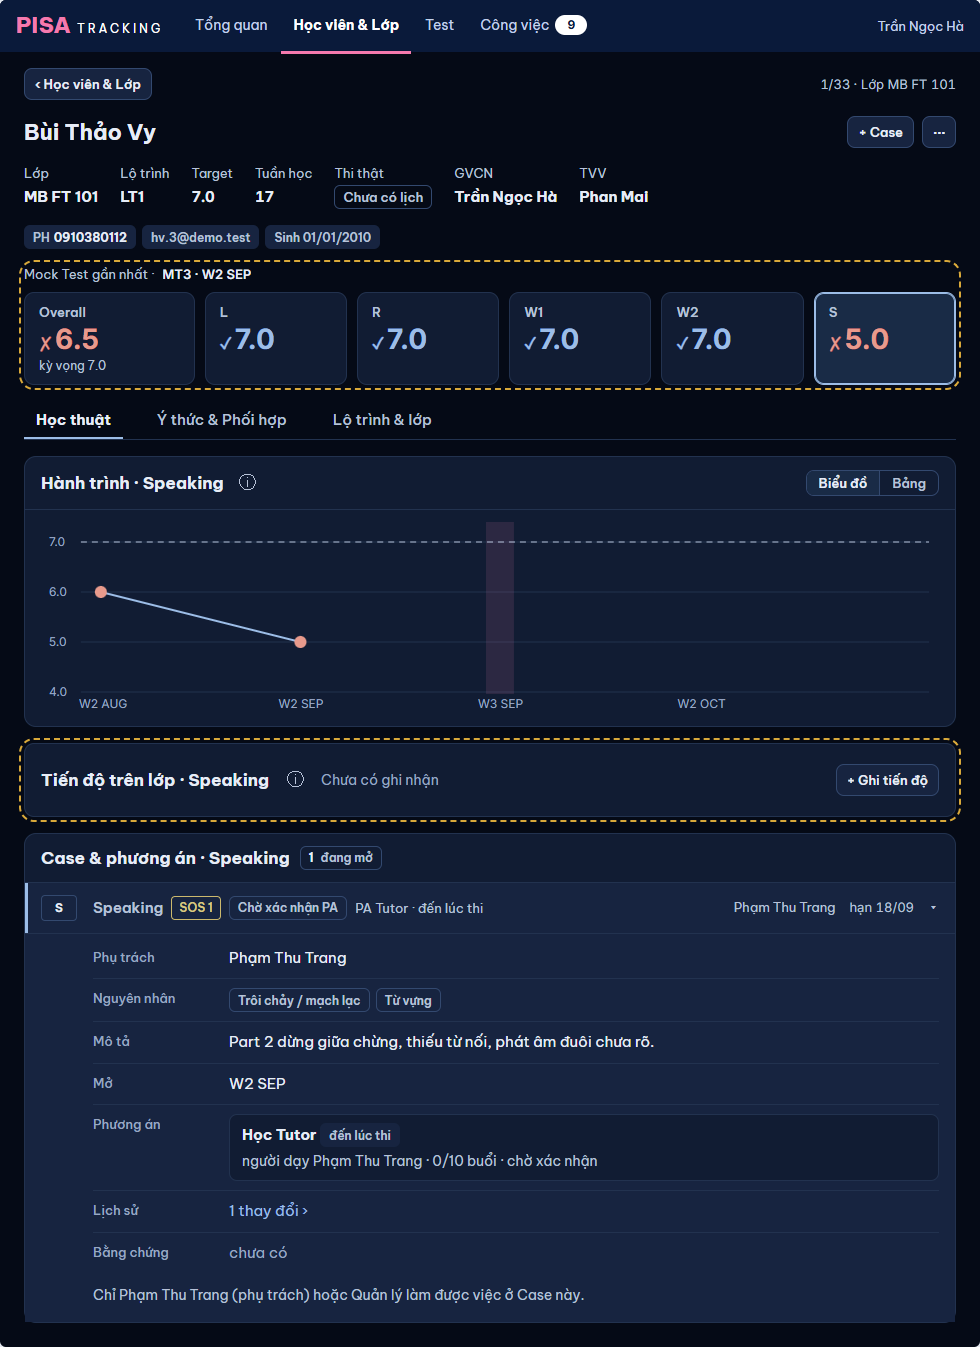
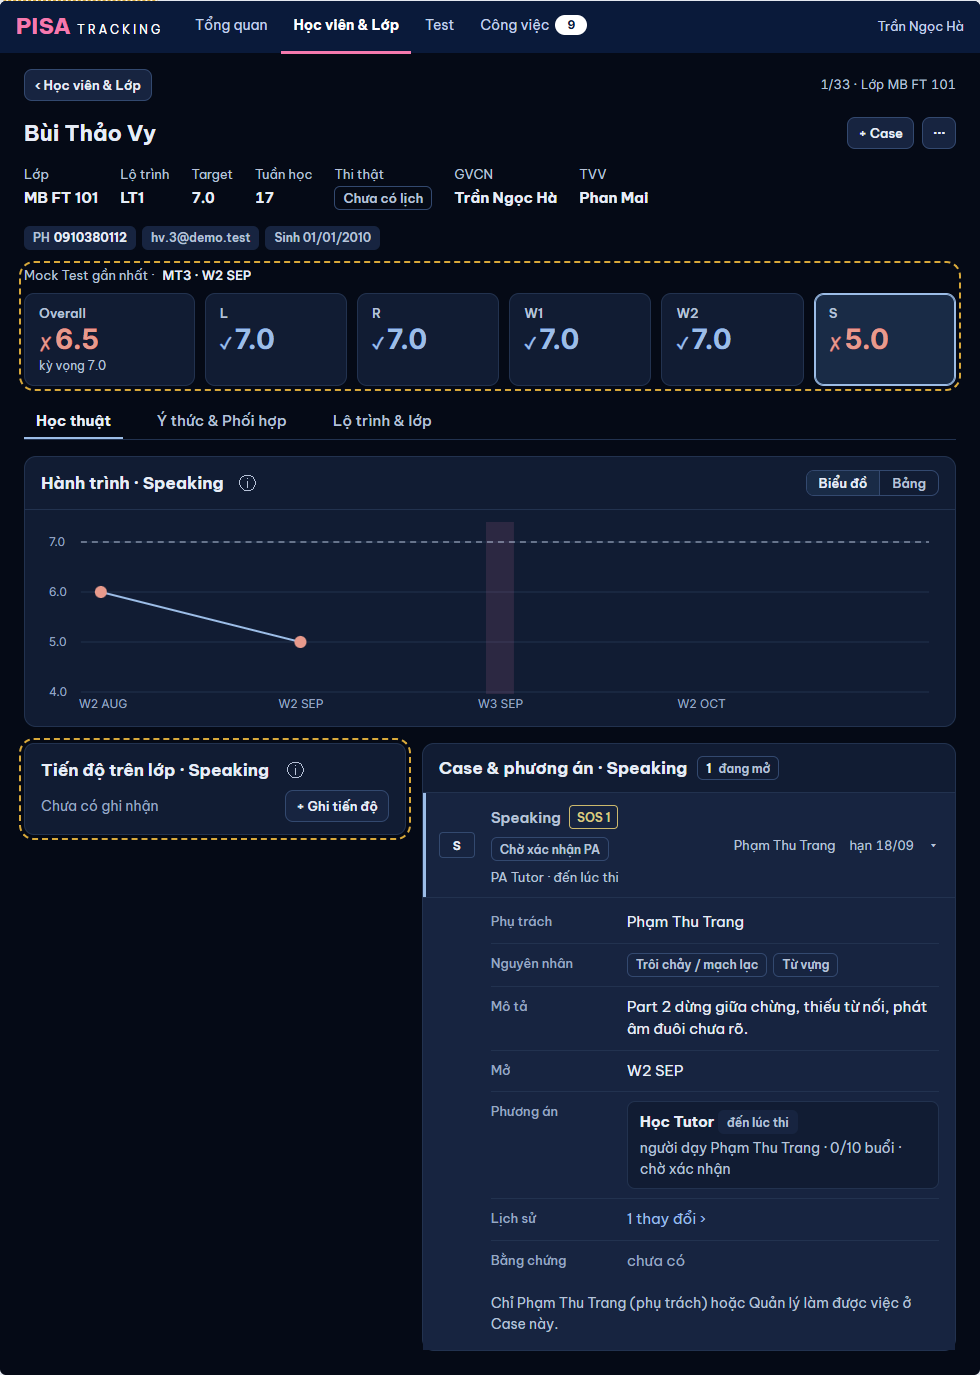
mockup v18 HS2: Tiến độ luôn cột trái, thẻ rỗng gọn (chủ SP 10/11)

diff --git a/thiet-ke/v18/ho-so-hv.html b/thiet-ke/v18/ho-so-hv.html
@@ -78,14 +78,13 @@
 .pa-the { background:var(--surface); border:1px solid var(--line); border-radius:8px; padding:8px 12px; display:grid; gap:4px; }
 .rong-case { margin:0; padding:14px 16px; display:flex; flex-wrap:wrap; gap:8px 12px; align-items:center; font-size:14px; color:var(--text-faint); }
 
-/* ===== HS2 · Tiến độ RỖNG → một dòng hết bề ngang; Case lấy hết hàng ===== */
-.td-mot-dong { display:flex; align-items:center; gap:8px 12px; flex-wrap:wrap; padding:10px 16px; min-height:52px; }
+/* ===== HS2 · Tiến độ RỖNG → thẻ gọn trong CỘT TRÁI (chủ SP 10/11: Tiến độ luôn trái, Case phải): hàng 1 tên · ⓘ, hàng 2 "Chưa có ghi nhận" · + Ghi tiến độ; không kẻ ngăn đầu thẻ ===== */
+.td-mot-dong { display:flex; align-items:center; gap:6px 12px; flex-wrap:wrap; padding:12px 16px; }
 .td-mot-dong h2 { font-size:17px; font-weight:700; margin:0; }
-.td-mot-dong .td-rong { font-size:14px; color:var(--text-faint); padding:0; display:inline; }
-.td-mot-dong .nut { margin-left:auto; }
+.td-mot-dong .td-rong { font-size:14px; color:var(--text-faint); padding:0; display:inline; order:3; flex:1 1 calc(100% - 140px); }
+.td-mot-dong .nut { order:4; margin-left:auto; }
 .dt .td-mot-dong { padding:10px 12px 10px 16px; }
-.dt .td-mot-dong .td-rong { order:3; flex:1 1 calc(100% - 140px); }
-.dt .td-mot-dong .nut { order:4; }
+.hai-cot .form-td { grid-template-columns:minmax(0,1fr); }
 .form-td { padding:14px 16px 16px; display:grid; grid-template-columns:repeat(2, minmax(0, 1fr)); gap:12px 16px; max-width:760px; }
 .form-td .ca { grid-column:1 / -1; }
 .form-td label { display:grid; gap:4px; font:600 13px var(--phong); color:var(--text-dim); }
@@ -115,7 +114,7 @@
     <h1>v18 · Hồ sơ HV — HS1 dải ô điểm · HS2 Tiến độ trên lớp rỗng</h1>
     <p>Nguồn: audit 08/11 (<code>docs/superpowers/specs/2026-11-08-audit-ui/bao-cao.md</code> dòng HS1, HS2) → [XM] #1240–#1242 → chủ SP 10/11 "VẪN LÀM". <b>Giữ bố cục U02 đã duyệt</b>, chỉ sửa hai chỗ:
       <span class="so-mk">HS1</span> thẻ nào cũng ghi "MT3" dưới số (375 cắt "MT3 · kỳ vọn…") → ghi nguồn <b>một lần</b> trên dải; thẻ chỉ ghi khi khác thường.
-      <span class="so-mk">HS2</span> Tiến độ trên lớp rỗng chiếm nửa hàng bên cạnh khối Case dài → <b>thu thành một dòng</b> hết bề ngang, Case lấy hết hàng.
+      <span class="so-mk">HS2</span> Tiến độ trên lớp rỗng chiếm nửa hàng bên cạnh khối Case dài → <b>thẻ gọn</b> trong cột trái (hai hàng, không ngăn đầu thẻ), Case vẫn cột phải — chủ SP 10/11: "tiến độ trên lớp ở phía bên trái và case bên phải".
       Mọi thao tác giữ (bảng D). Không thêm câu đọc máy chủ (bảng E). Demo Monbay, hôm nay <b>14/09/2026 · W3 SEP</b>, em <b>Bùi Thảo Vy</b> (MB FT 101 · LT1 · Target 7.0). 1440 <b>tối</b> · 375 <b>sáng</b>. Trái = ảnh chụp web hiện tại (main d8dec605f), phải = sau khi sửa. Viền đứt vàng = chỗ sửa (không lên web).</p>
     <nav class="muc-mk"><a href="#a">A · 1440 trước | sau</a><a href="#b">B · 375 trước | sau</a><a href="#c">C · trạng thái</a><a href="#d">D · thao tác trước → sau</a><a href="#e">E · đọc dữ liệu</a></nav>
   </header>
@@ -131,7 +130,7 @@
 
   <section class="khu">
     <h2>A2 · 1440 tối — chọn ô S, Tiến độ RỖNG, Case dài</h2>
-    <p class="ghi"><span class="so-mk">HS2</span>trước: thẻ "Tiến độ trên lớp · Chưa có ghi nhận" chiếm 5/12 hàng, bên phải Case mở dài → khoảng trống lớn dưới thẻ. Sau: <b>một dòng</b> "Tiến độ trên lớp · Speaking ⓘ · Chưa có ghi nhận · + Ghi tiến độ" hết bề ngang, ngay dưới Hành trình; Case lấy cả hàng. Có ghi nhận đầu tiên → về hai cột (A1).</p>
+    <p class="ghi"><span class="so-mk">HS2</span>trước: thẻ "Tiến độ trên lớp · Chưa có ghi nhận" chiếm 5/12 hàng, bên phải Case mở dài → khoảng trống lớn dưới thẻ. Sau (chủ SP 10/11): Tiến độ <b>vẫn cột trái</b>, Case cột phải; thẻ rỗng gọn hai hàng "Tiến độ trên lớp · Speaking ⓘ" / "Chưa có ghi nhận · + Ghi tiến độ", không ngăn đầu thẻ.</p>
     <div class="cap">
       <figure><figcaption>Trước · em Chu Nhật Minh (Case mở dài)</figcaption><img class="anh-truoc" src="anh/truoc-hs-hai-cot-1440.png" alt="Hồ sơ hiện tại: Tiến độ rỗng nửa hàng cạnh Case dài"></figure>
       <figure><figcaption>Sau · Bùi Thảo Vy · ô S</figcaption><div class="man toi dai" data-k="a2" style="width:980px"></div></figure>
@@ -140,7 +139,7 @@
 
   <section class="khu" id="b">
     <h2>B · 375 sáng</h2>
-    <p class="ghi"><span class="so-mk">HS1</span>hết cắt "MT3 · kỳ vọn…": dòng nguồn trên dải, Overall chỉ "kỳ vọng 7.0" · <span class="so-mk">HS2</span>Case trước (giữ luật U02 #16), Tiến độ rỗng một dòng sau Case — nút "+ Ghi tiến độ" 44 px.</p>
+    <p class="ghi"><span class="so-mk">HS1</span>hết cắt "MT3 · kỳ vọn…": dòng nguồn trên dải, Overall chỉ "kỳ vọng 7.0" · <span class="so-mk">HS2</span>Case trước (giữ luật U02 #16), Tiến độ rỗng thẻ gọn sau Case — nút "+ Ghi tiến độ" 44 px.</p>
     <div class="cap">
       <figure><figcaption>Trước</figcaption><img class="anh-truoc dt-a" src="anh/truoc-hs-375.png" alt="Hồ sơ hiện tại 375"></figure>
       <figure><figcaption>B1 · Sau · Overall</figcaption><div class="dt sang dai" data-k="b1"></div></figure>
@@ -150,9 +149,9 @@
 
   <section class="khu" id="c">
     <h2>C · Trạng thái (1440 tối trừ khi ghi)</h2>
-    <p class="ghi"><span class="so-mk">C1</span>bấm "+ Ghi tiến độ" ở dòng rỗng → dòng mở thành khung form <b>ngay tại chỗ</b> (form cũ, không panel) · Huỷ → về một dòng · Lưu → về hai cột, dòng vừa lưu viền nhấn + "✓ Đã lưu · Hoàn tác" 10 giây (như web).
-      <span class="so-mk">C2</span>nguồn lệch: S chưa có điểm MT3 (dời) → thẻ S ghi "<b>từ MT2</b>" chữ đậm, màu chữ chính (khác dòng phụ mờ — một ngoại lệ phải thấy ngay) (không chữ "vắng" — HSL-GON). <span class="so-mk">C3</span>em chưa có MT nào: dòng nguồn "Chưa có điểm Mock Test", thẻ "—" không lặp "chưa có điểm" 6 lần; Tiến độ + Case đều rỗng → hai dòng.
-      <span class="so-mk">C4</span>Overall, Tiến độ rỗng: một dòng, không nút (Overall chỉ đọc — ghi khi chọn kỹ năng, N33 ②). <span class="so-mk">C5</span>đã thi có KQ: ô Thi thật thay Overall — <b>giữ như web</b> (góc ghi nguồn từng ô), không dòng nguồn.</p>
+    <p class="ghi"><span class="so-mk">C1</span>bấm "+ Ghi tiến độ" ở dòng rỗng → thẻ mở form cũ <b>ngay trong cột trái</b> (không panel) · Huỷ → về thẻ gọn · Lưu → về hai cột, dòng vừa lưu viền nhấn + "✓ Đã lưu · Hoàn tác" 10 giây (như web).
+      <span class="so-mk">C2</span>nguồn lệch: S chưa có điểm MT3 (dời) → thẻ S ghi "<b>từ MT2</b>" chữ đậm, màu chữ chính (khác dòng phụ mờ — một ngoại lệ phải thấy ngay) (không chữ "vắng" — HSL-GON). <span class="so-mk">C3</span>em chưa có MT nào: dòng nguồn "Chưa có điểm Mock Test", thẻ "—" không lặp "chưa có điểm" 6 lần; Tiến độ + Case đều rỗng → hai thẻ gọn cạnh nhau.
+      <span class="so-mk">C4</span>Overall, Tiến độ rỗng: thẻ gọn, không nút (Overall chỉ đọc — ghi khi chọn kỹ năng, N33 ②). <span class="so-mk">C5</span>đã thi có KQ: ô Thi thật thay Overall — <b>giữ như web</b> (góc ghi nguồn từng ô), không dòng nguồn.</p>
     <div class="hang-khung">
       <figure><figcaption>C1 · + Ghi tiến độ từ dòng rỗng (ô S)</figcaption><div class="man toi dai" data-k="c1" style="width:980px"></div></figure>
       <figure><figcaption>C2 · nguồn lệch — S từ MT2</figcaption><div class="man toi dai" data-k="c2" style="width:980px"></div></figure>
@@ -176,10 +175,10 @@
       <tr><td>Ô Thi thật (đã thi / chờ KQ) · góc "thi thật" / "lần trước" · Target ±</td><td>có</td><td>có, không thêm dòng nguồn</td><td class="gi">GIỮ</td></tr>
       <tr><td>Lớp thường (môn, "đạt / chưa đạt")</td><td>có</td><td>có, không dòng nguồn (mỗi môn một bài khác nhau)</td><td class="gi">GIỮ</td></tr>
       <tr><td>Tiến độ trên lớp CÓ ghi nhận · + Ghi tiến độ · bấm dòng sửa / xoá · Hoàn tác 10 giây · Góp ý tuần khoá · Xem thêm · rê dòng tô tuần trên chart · ⓘ</td><td>cột trái 5/12</td><td>như cũ</td><td class="gi">GIỮ</td></tr>
-      <tr><td>Tiến độ trên lớp RỖNG</td><td>thẻ nửa hàng "Chưa có ghi nhận" (+ nút ở đầu thẻ khi ghi được)</td><td>một dòng hết bề ngang: tên · ⓘ · "Chưa có ghi nhận" · "+ Ghi tiến độ" (chỉ khi ghi được, quyền máy chủ như cũ); Case lấy cả hàng</td><td class="doi">ĐỔI bố cục — HS2</td></tr>
-      <tr><td>+ Ghi tiến độ → form (Kỹ năng · Tuần · Kết quả · Điểm / Thang / Band · Tên bài · Nhận xét)</td><td>form trong cột trái</td><td>form tại chỗ trong khung đó (hết bề ngang, form tối đa 760 px — hai cột trường), không panel</td><td class="gi">GIỮ form · đổi chỗ vẽ</td></tr>
+      <tr><td>Tiến độ trên lớp RỖNG</td><td>thẻ nửa hàng "Chưa có ghi nhận" (+ nút ở đầu thẻ khi ghi được)</td><td>vẫn cột trái 5/12, thẻ gọn hai hàng: tên · ⓘ / "Chưa có ghi nhận" · "+ Ghi tiến độ" (chỉ khi ghi được, quyền máy chủ như cũ); không ngăn đầu thẻ; Case cột phải</td><td class="doi">ĐỔI dáng thẻ rỗng — HS2</td></tr>
+      <tr><td>+ Ghi tiến độ → form (Kỹ năng · Tuần · Kết quả · Điểm / Thang / Band · Tên bài · Nhận xét)</td><td>form trong cột trái</td><td>form trong cột trái như cũ, không panel</td><td class="gi">GIỮ</td></tr>
       <tr><td>Thứ tự 375: Case trước, Tiến độ sau</td><td>có</td><td>có</td><td class="gi">GIỮ</td></tr>
-      <tr><td>Case &amp; phương án (mọi thao tác trong Case, + Case cho kỹ năng, Case đã đóng)</td><td>cột phải 7/12</td><td>cột phải 7/12 khi có Tiến độ · cả hàng khi Tiến độ rỗng; bên trong không đổi</td><td class="gi">GIỮ (chỉ đổi bề rộng)</td></tr>
+      <tr><td>Case &amp; phương án (mọi thao tác trong Case, + Case cho kỹ năng, Case đã đóng)</td><td>cột phải 7/12</td><td>cột phải 7/12; bên trong không đổi</td><td class="gi">GIỮ</td></tr>
     </table>
   </section>
 
@@ -282,13 +281,13 @@
   var vo = function (dt, body) { return thanh(dt) + '<div class="hs">' + body + '</div>'; };
 
   K.a1 = vo(false, dau() + dai(DU, 'Overall', NGUON) + tabs + mockTest() + '<div class="hai-cot">' + tienDoCo() + caseTatCa() + '</div>');
-  K.a2 = vo(false, dau() + dai(DU, 'S', NGUON) + tabs + hanhTrinh('Speaking') + tienDoRong('Speaking', true) + caseS());
+  K.a2 = vo(false, dau() + dai(DU, 'S', NGUON) + tabs + hanhTrinh('Speaking') + '<div class="hai-cot">' + tienDoRong('Speaking', true) + caseS() + '</div>');
   K.b1 = vo(true, dau(true) + dai(DU, 'Overall', NGUON) + tabs + mockTest(true) + caseTatCa() + tienDoCo());
   K.b2 = vo(true, dau(true) + dai(DU, 'S', NGUON) + tabs + bangKn375('Speaking') + caseS(true) + tienDoRong('Speaking', true));
-  K.c1 = vo(false, dai(DU, 'S', NGUON) + hanhTrinh('Speaking') + tienDoForm('Speaking') + caseS());
+  K.c1 = vo(false, dai(DU, 'S', NGUON) + hanhTrinh('Speaking') + '<div class="hai-cot">' + tienDoForm('Speaking') + caseS() + '</div>');
   K.c2 = vo(false, dai(LECH, 'S', NGUON) + hanhTrinh('Speaking', [[0, 6.0, 'duoi'], [1, 5.5, 'duoi']]));
-  K.c3 = vo(false, dau(false, { ten: 'Lê Hoàng Nam', tuan: '1' }) + dai(RONG, 'L', 'Chưa có điểm Mock Test') + tabs + hanhTrinh('Listening', []) + tienDoRong('Listening', true) + caseRong('Listening', 'Listening'));
-  K.c4 = vo(false, dai(DU, 'Overall', NGUON) + tienDoRong(null, false) + caseTatCa());
+  K.c3 = vo(false, dau(false, { ten: 'Lê Hoàng Nam', tuan: '1' }) + dai(RONG, 'L', 'Chưa có điểm Mock Test') + tabs + hanhTrinh('Listening', []) + '<div class="hai-cot">' + tienDoRong('Listening', true) + caseRong('Listening', 'Listening') + '</div>');
+  K.c4 = vo(false, dai(DU, 'Overall', NGUON) + '<div class="hai-cot">' + tienDoRong(null, false) + caseTatCa() + '</div>');
   K.c6 = vo(true, dai(DU, 'S', NGUON) + caseS(true) + tienDoForm('Speaking'));
   K.c7 = vo(true, dau(true, { ten: 'Lê Hoàng Nam', tuan: '1' }) + dai(RONG, 'L', 'Chưa có điểm Mock Test') + tabs + caseRong('Listening', 'Listening') + tienDoRong('Listening', true));
   document.querySelectorAll('[data-k]').forEach(function (el) { el.innerHTML = K[el.dataset.k] || ''; });
